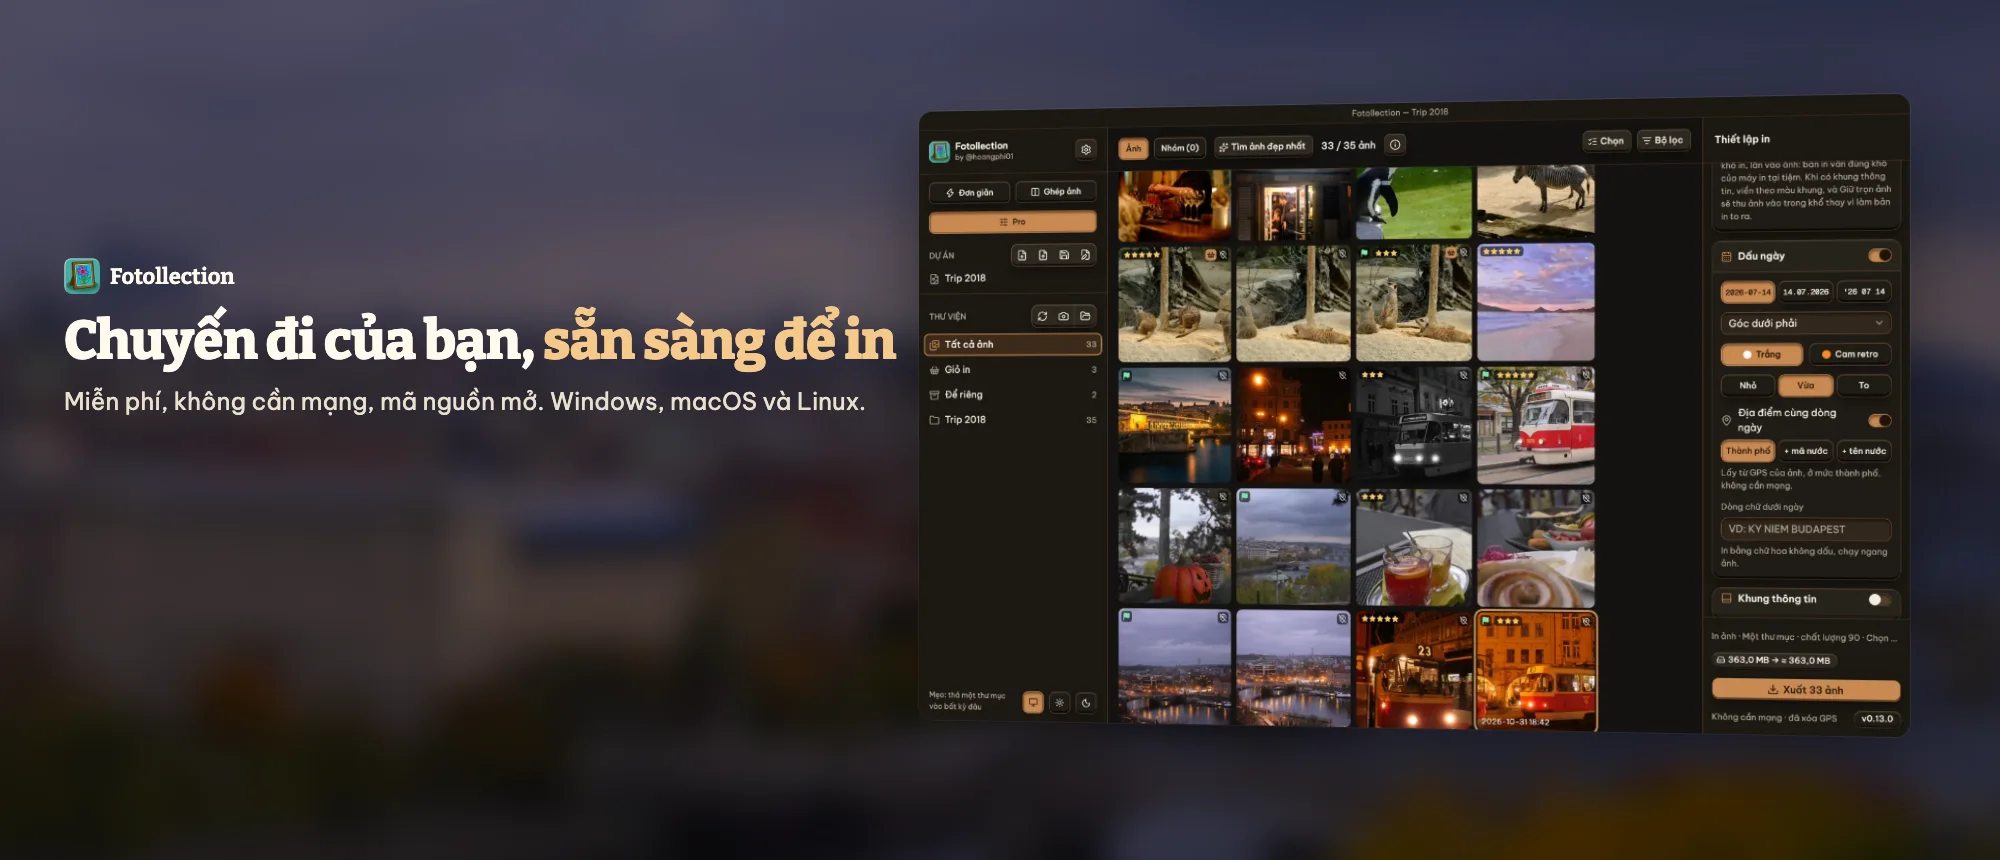
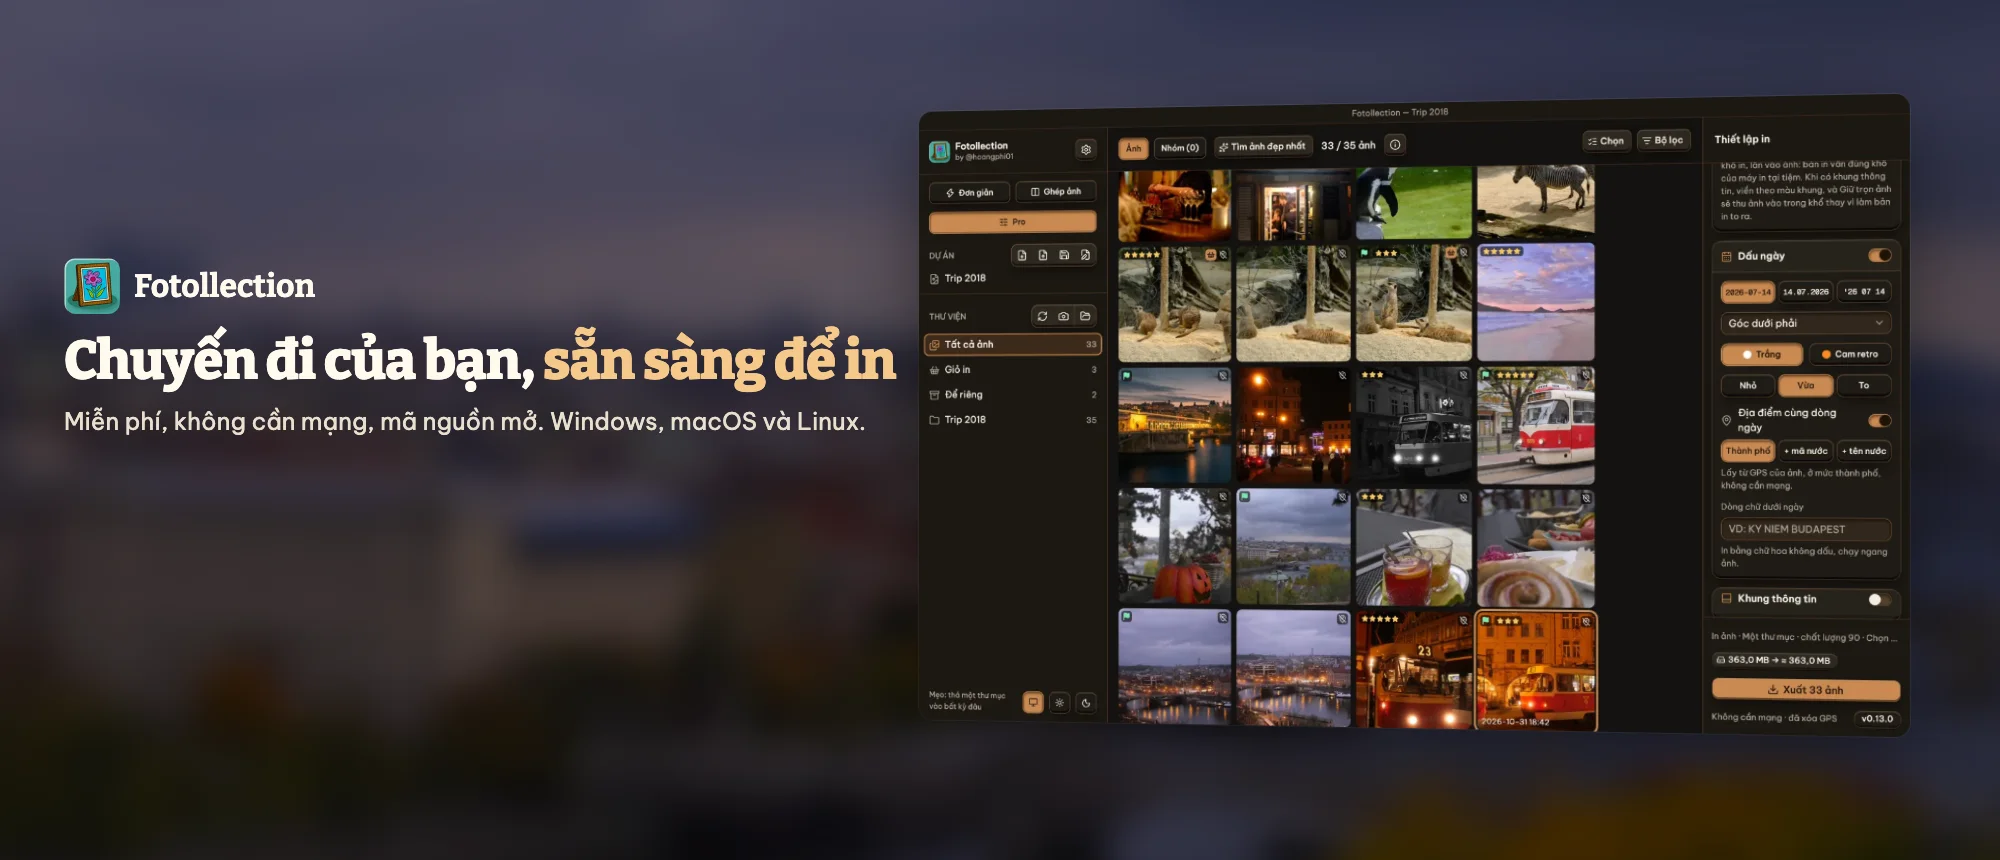
feat(site): a larger mark and name on the showcase tiles, readable at the size the page shows them [FR-099]

Changed region(s): [[0.031, 0.3023, 0.465, 0.514]]

diff --git a/site/screenshots/showcase.html b/site/screenshots/showcase.html
@@ -18,8 +18,9 @@
       body.teal { background: #2c836d radial-gradient(circle at 85% 110%, #4aada4 0, transparent 60%); }
       body.wood { background-color: #1e1712; background-image: radial-gradient(circle at 15% -10%, #6b4426 0, transparent 55%), radial-gradient(circle at 100% 100%, #3b2a1c 0, transparent 60%); }
       .text { position: absolute; left: 64px; top: 56px; right: 64px; z-index: 2; }
-      .brand { display: flex; align-items: center; gap: 10px; font: 700 22px 'Bitter', serif; }
-      .brand img { width: 36px; height: 36px; border-radius: 8px; }
+      /* The tiles show at about 60 % on the page: a mark that still reads there (owner, 2026-11-06). */
+      .brand { display: flex; align-items: center; gap: 14px; font: 700 32px 'Bitter', serif; }
+      .brand img { width: 56px; height: 56px; border-radius: 12px; }
       h1 { margin-top: 18px; font: 800 54px/1.08 'Bitter', serif; letter-spacing: -0.01em; max-width: 900px; }
       h1 em { font-style: normal; color: #f6c98b; }
       p.sub { margin-top: 14px; font-size: 24px; line-height: 1.45; color: #e9dfcf; max-width: 880px; }
